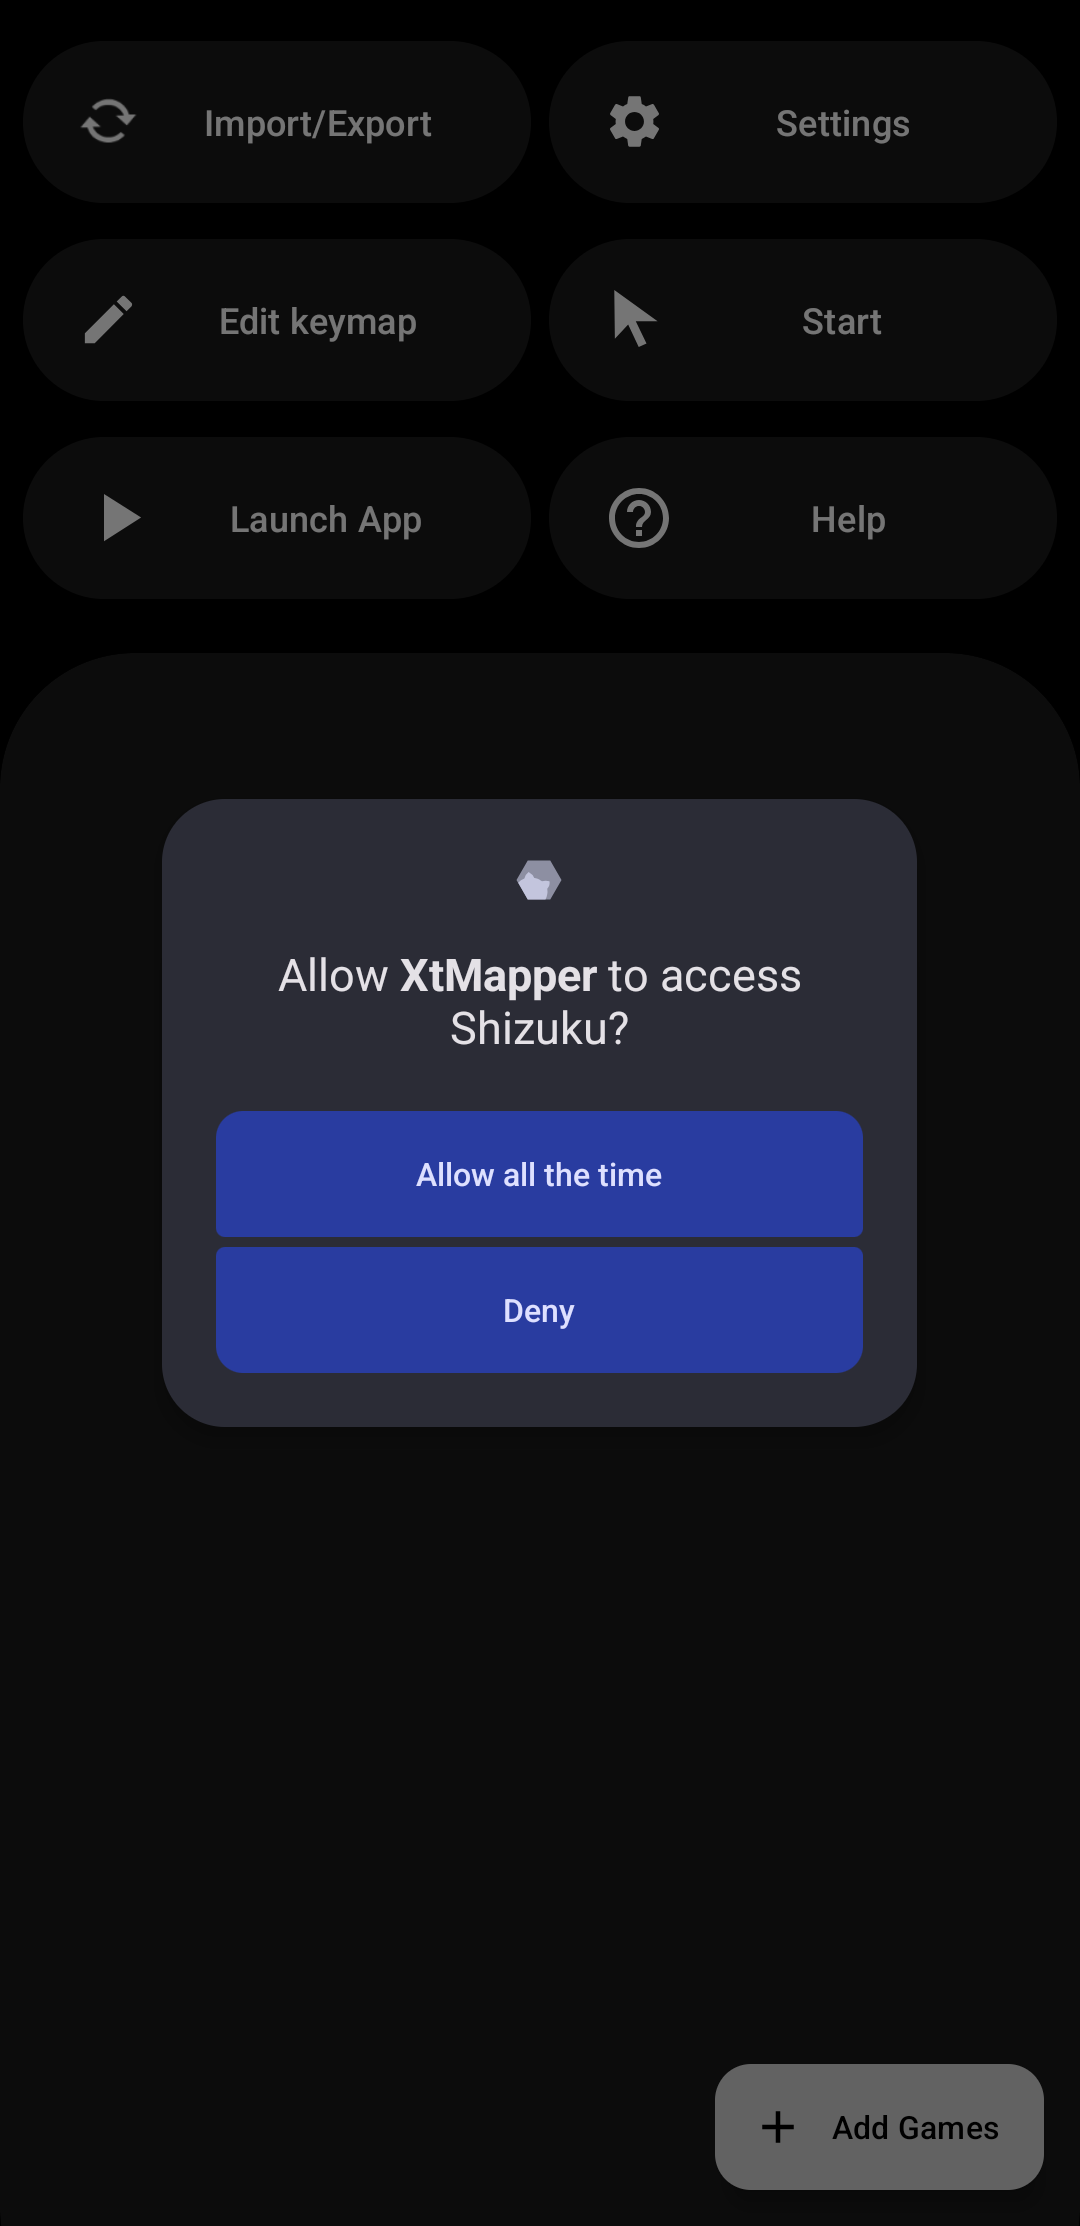
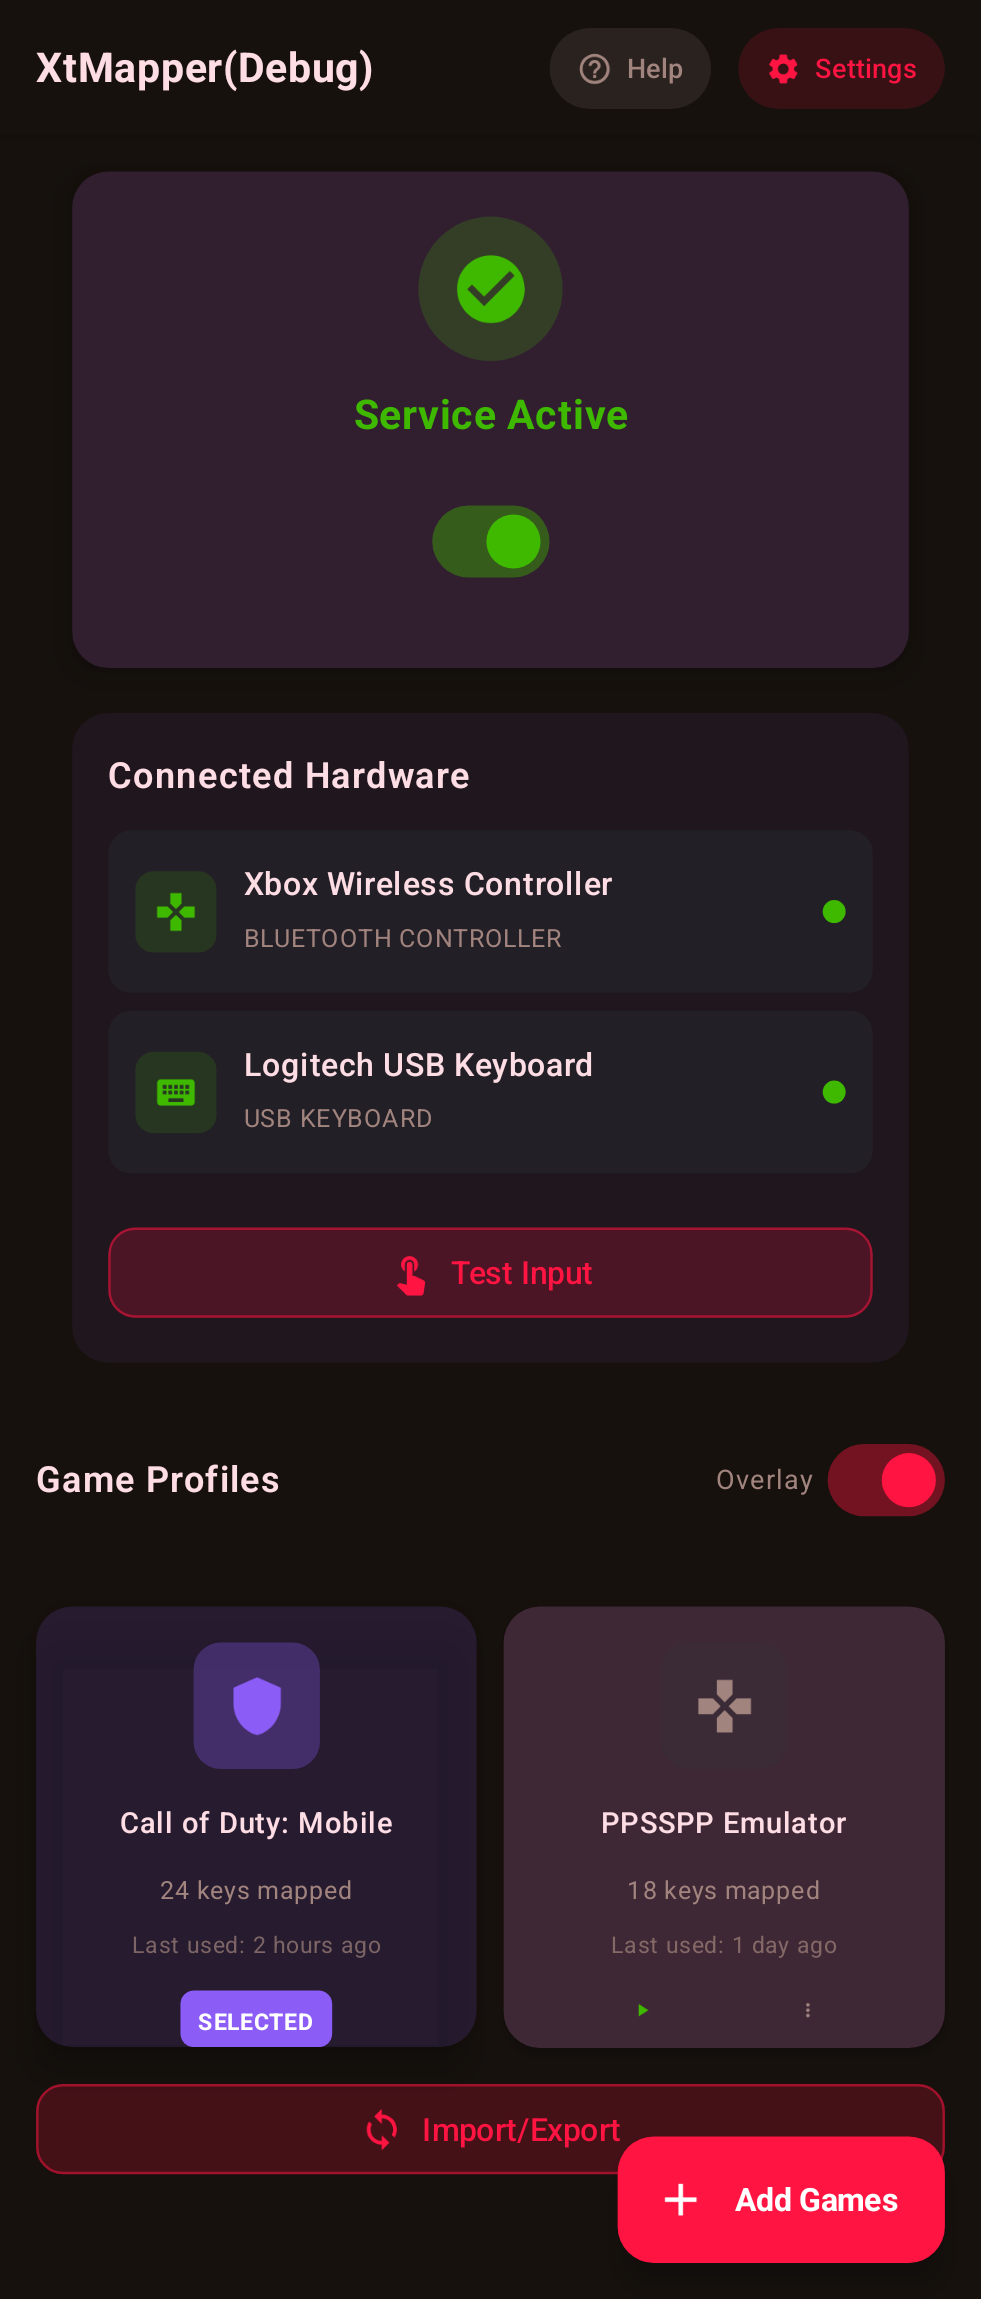
Update screenshot

diff --git a/README.md b/README.md
@@ -28,7 +28,7 @@ https://xtr126.github.io/XtMapper-docs/guides/about
 
 |   |   |   |
 | ------------- | ------------- | ------------- |
-|  <img src="https://github.com/user-attachments/assets/df57855f-66a8-495e-8252-05c433933eae"/>  |  <img src="https://github.com/user-attachments/assets/d5866a7b-241f-4ab6-9f1f-79538fe116d3"/>  |  <img src="https://github.com/user-attachments/assets/b7bd4346-c22e-485e-85b0-b05659afe183"/>  |
+|  <img src="https://raw.githubusercontent.com/Xtr126/XtMapper/refs/heads/dev/fastlane/metadata/android/en-US/images/phoneScreenshots/1.png"/>  |  <img src="https://github.com/user-attachments/assets/d5866a7b-241f-4ab6-9f1f-79538fe116d3"/>  |  <img src="https://github.com/user-attachments/assets/b7bd4346-c22e-485e-85b0-b05659afe183"/>  |
 |  <img src="https://github.com/user-attachments/assets/9f8cabe9-9fea-4bf8-b215-d843bb6f15d6"/>  |  <img src="https://github.com/user-attachments/assets/a58848b0-c9a9-4c6f-a0aa-01c051dfb611"/>  |  <img src="https://github.com/user-attachments/assets/d39b871f-2554-4f71-b211-d06372f67ae9"/>  |
 <img width="2340" height="992" alt="image" src="https://github.com/user-attachments/assets/b494cd0d-5503-4b7d-8a6f-cb86adefc4e1" />
 
